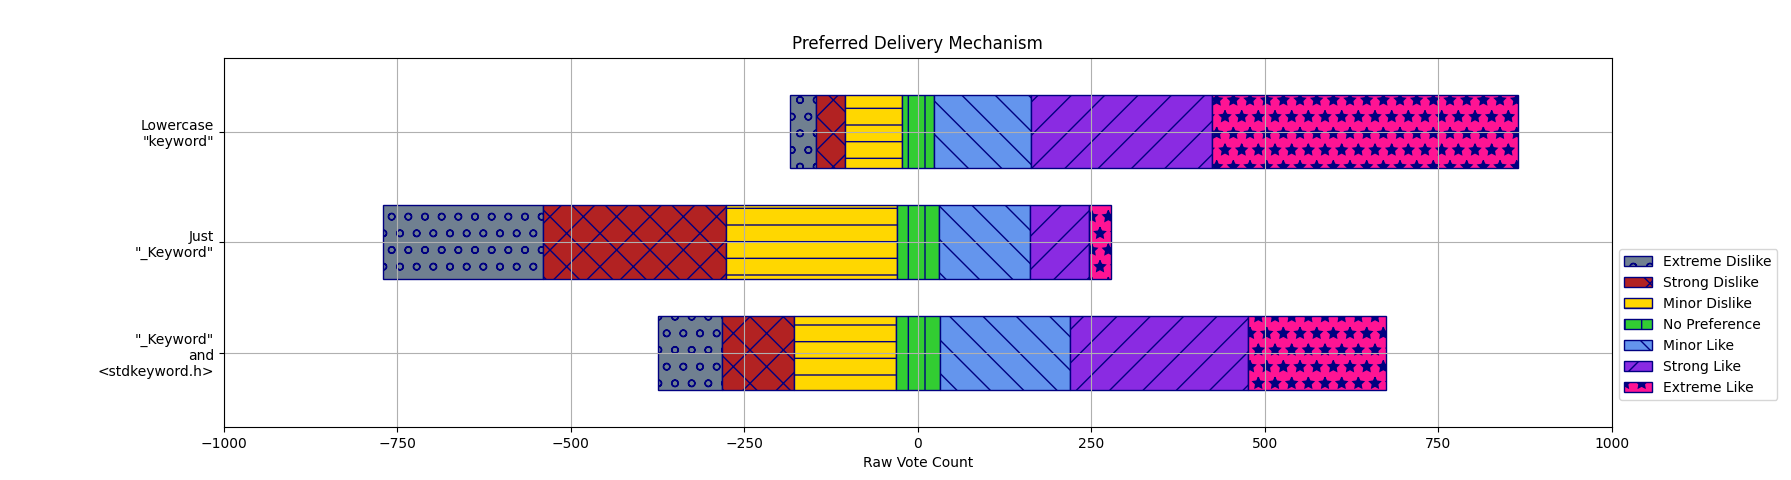
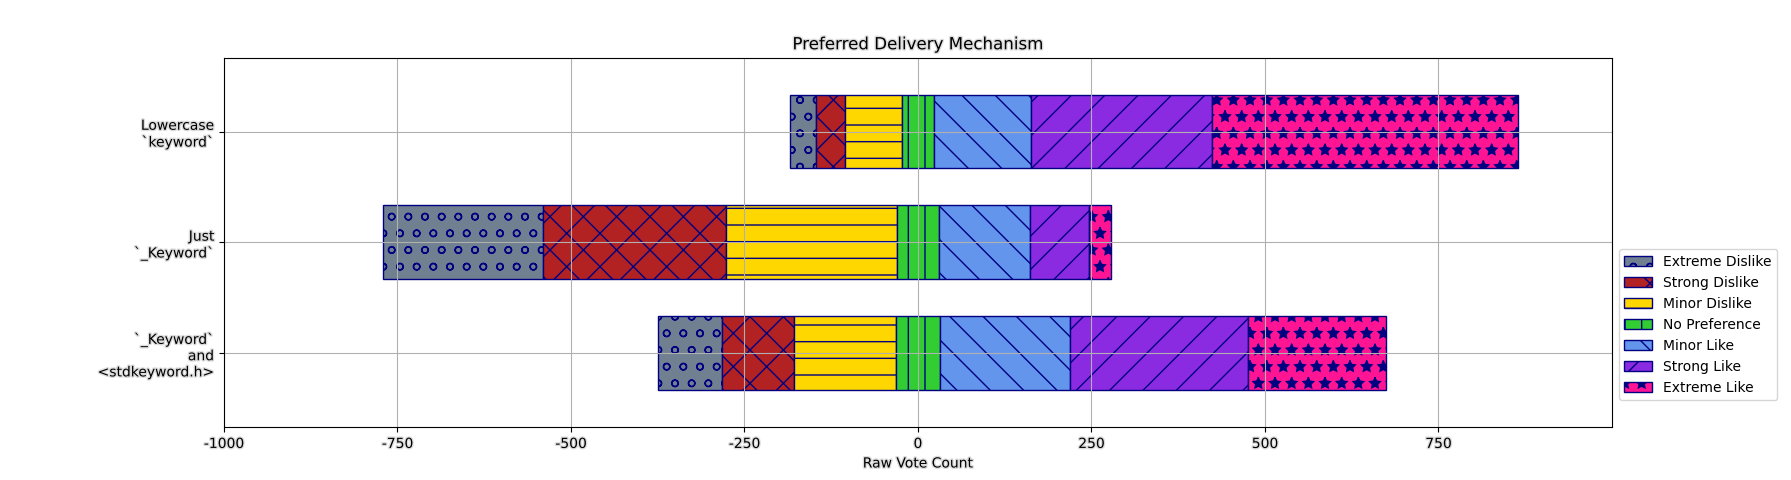
🛠 Provide CSV headers
- 🎨 Add proper stroke and transparency to all graphs
- 🎨 Adjust colors and stroke thickness for better readability

diff --git a/main.py b/main.py
@@ -13,6 +13,7 @@ import numpy
 import sys
 from mpl_toolkits.basemap import Basemap
 import wordcloud
+import colorsys
 
 class response:
 	usage_experience_associations = {
@@ -93,9 +94,9 @@ class response:
 		)
 	]
 	index_to_delivery_associations = [
-		"\"_Keyword\" and <stdkeyword.h>",
-		"Just \"_Keyword\"",
-		"Lowercase \"keyword\""
+		"`_Keyword` and <stdkeyword.h>",
+		"Just `_Keyword`",
+		"Lowercase `keyword`"
 	]
 	delivery_underscore_header_index = 0
 	delivery_underscore_only_index = 1
@@ -204,6 +205,11 @@ country_pattern = re.compile(r"^\[Country\]\s*(.*)$")
 score_colors = ["slategrey", "firebrick", "gold", "limegreen", "cornflowerblue", "blueviolet", "deeppink"]
 score_hatches = ["o", "x", "-", "|", "\\", "/", "*"]
 skill_hatches = ["o", "x", "-", "|", "\\", "/", "*"]
+
+def csv_string_escape (value: str):
+	value = value.replace("\"", r"\"")
+	value = value.replace("\n", r"\n")
+	return value
 
 def parse_question_answer(question_number, current_response: response,
                           line: str, line_index: int, line_count: int,
@@ -357,6 +363,20 @@ def parse_all_counted_data_into(lines):
 
 def write_data(results : list[response], output_prefix, seed):
 	with open(output_prefix + "_data.csv", "w", encoding="utf-8") as f:
+		# descriptive headers
+		header_line = "response_id,last_use,skill_level,"
+		for label in response.index_to_spelling_associations:
+			header_label = csv_string_escape(label)
+			header_line += f"\"{header_label}\","
+		for label in response.index_to_delivery_associations:
+			header_label = csv_string_escape(label)
+			header_line += f"\"{header_label}\","
+		for label in response.index_to_exact_spelling_associations:
+			header_label = csv_string_escape(label)
+			header_line += f"\"{header_label}\","
+		header_line += ",comment"
+		f.write(header_line)
+		# rest of the data
 		for result in results:
 			line = f"{result.id},{result.last_use},{result.skill_level}"
 			for s in result.spelling:
@@ -367,9 +387,7 @@ def write_data(results : list[response], output_prefix, seed):
 				line += f",{es}"
 			line += ","
 			if not result.comment is None and len(result.comment) > 0:
-				comment = result.comment
-				comment = comment.replace("\"", r"\"")
-				comment = comment.replace("\\n", r"\n")
+				comment = csv_string_escape(result.comment)
 				line += f"\"{comment}\""
 			line += "\n"
 
@@ -388,12 +406,17 @@ def draw_city_distribution(results: list[response], output_prefix, seed):
 					    width=1600, height=1200)
 	cloud.generate_from_frequencies(cities_and_countries)
 	img = cloud.to_image().convert("RGBA")
-	#for x in range(0, img.width):
-	#	for y in range(0, img.height):
-	#		pixel = img.getpixel((x, y))
-	#		fuzziness = 40
-	#		if (255 - fuzziness) <= pixel[0] <= 255 and (255 - fuzziness) <= pixel[0] <= 255 and (255 - fuzziness) <= pixel[0] <= 255:
-	#			img.putpixel((x, y), (0, 0, 0, 0))
+	for x in range(0, img.width):
+		for y in range(0, img.height):
+			pixel = img.getpixel((x, y))
+			pixel_hsv = colorsys.rgb_to_hsv(pixel[0], pixel[1], pixel[2])
+			fuzziness = 0.6
+			brightness = pixel_hsv[2] / 255
+			if brightness < fuzziness or pixel_hsv[1] > 0.3:
+				continue
+			alpha = 1.0 - ((brightness - fuzziness) / (1.0 - fuzziness))
+			alpha_rgba = int(min(max(alpha * 255, 0), 255))
+			img.putpixel((x, y), (pixel[0], pixel[1], pixel[2], alpha_rgba))
 	img.save(output_prefix + "_cloud.png")
 	matplotlib.pyplot.close('all')
 
@@ -405,14 +428,14 @@ def draw_map(results: list[response], output_prefix, seed):
 	# draw parallels and meridians.
 	map.drawparallels(numpy.arange(-90.,91.,30.), color="white", linewidth=0.5)
 	map.drawmeridians(numpy.arange(-180.,181.,60.), color="white", linewidth=0.5)
-	map.drawmapboundary(fill_color="royalblue")
-	map.drawcountries(linewidth=0.2, color="cyan")
+	map.drawmapboundary(color="white", fill_color="royalblue")
+	map.drawcountries(linewidth=0.4, color="white")
 	rnd = random.Random(seed)
 	markers = [".", "x", "*", "v", "d", "p"]
 	colors = score_colors[:6]
 	plots = []
 	handles_and_labels = [None, None, None, None, None, None]
-	stroke_effects = [matplotlib.patheffects.withStroke(linewidth=1, foreground="b")]
+	stroke_effects = [matplotlib.patheffects.withStroke(linewidth=1.25, foreground="white")]
 	
 	for result in results:
 		longiskew = -0.8 + ((rnd.randrange(0, 100) / 100.0) * 1.6)
@@ -427,14 +450,14 @@ def draw_map(results: list[response], output_prefix, seed):
 		plot = map.plot(x, y, marker=marker, color=(marker_color, 0.25), linewidth=0.3)
 		plots.append(plot)
 		if handle_label is None:
-			legend_plot = map.plot(0, 0, marker=marker, color=(marker_color, 0.5), linewidth=0.3, zorder=sys.float_info.min)[0]
+			legend_plot = map.plot(0, 0, marker=marker, color=(marker_color, 0.5), linewidth=0.30, zorder=sys.float_info.min)[0]
 			plot_label = response.index_to_spelling_associations[best_spelling_score_index]
 			handle_label = handles_and_labels[best_spelling_score_index] = (legend_plot, plot_label)
 	
 	matplotlib.pyplot.legend([hl[0] for hl in handles_and_labels], [hl[1] for hl in handles_and_labels], fontsize="x-small")
 	
 	title_text = matplotlib.pyplot.title("Respondent Geographic Distribution")
-	title_text.set_color("#FFFF")
+	title_text.set_color("#000F")
 	title_text.set_path_effects(stroke_effects)
 	
 	matplotlib.pyplot.tight_layout()
@@ -457,16 +480,16 @@ def draw_skill_piecharts(results: list[response], output_prefix: str, seed: int)
 	figures, axes = matplotlib.pyplot.subplots()
 	figures.set_figwidth(28)
 	figures.set_figheight(20)
-	stroke_effects = [matplotlib.patheffects.withStroke(linewidth=1, foreground="b")]
+	stroke_effects = [matplotlib.patheffects.withStroke(linewidth=2, foreground="white")]
 	title_text = axes.set_title("Respondent Skill Levels")
 	_, texts = axes.pie(sizes, counterclock=False, labels=labels, hatch=skill_hatches)
 
 	title_text.set_fontsize(48)
-	title_text.set_color("#FFFF")
+	title_text.set_color("#000F")
 	title_text.set_path_effects(stroke_effects)
 	for t in texts:
 		t.set_fontsize(20)
-		t.set_color("#FFFF")
+		t.set_color("#000F")
 		t.set_path_effects(stroke_effects)
 	figures.savefig(output_prefix + "_skills.png", transparent=True)
 	matplotlib.pyplot.close('all')
@@ -487,16 +510,16 @@ def draw_experience_piecharts(results: list[response], output_prefix: str, seed:
 	figures, axes = matplotlib.pyplot.subplots()
 	figures.set_figwidth(21)
 	figures.set_figheight(20)
-	stroke_effects = [matplotlib.patheffects.withStroke(linewidth=1, foreground="b")]
+	stroke_effects = [matplotlib.patheffects.withStroke(linewidth=2, foreground="white")]
 	title_text = axes.set_title("Respondent Usage Experience")
 	_, texts = axes.pie(sizes, counterclock=False, labels=labels, hatch=score_hatches)
 
 	title_text.set_fontsize(48)
-	title_text.set_color("#FFFF")
+	title_text.set_color("#000F")
 	title_text.set_path_effects(stroke_effects)
 	for t in texts:
 		t.set_fontsize(20)
-		t.set_color("#FFFF")
+		t.set_color("#000F")
 		t.set_path_effects(stroke_effects)
 	figures.savefig(output_prefix + "_experience.png", transparent=True)
 	matplotlib.pyplot.close('all')
@@ -511,6 +534,7 @@ def draw_spelling_barcharts(results: list[response], output_prefix: str, seed: i
 		[0, 0, 0, 0, 0, 0, 0],
 		[0, 0, 0, 0, 0, 0, 0],
 	)
+	stroke_effects = [matplotlib.patheffects.withStroke(linewidth=2, foreground="gainsboro")]
 	for result in results:
 		for i, score in enumerate(spelling):
 			score = result.spelling[i]
@@ -533,19 +557,28 @@ def draw_spelling_barcharts(results: list[response], output_prefix: str, seed: i
 			bar_left_edge += bar_score
 			bar.set_label(label_name)
 			bars.append(bar)
-	axes.set(xlabel="Raw Vote Count", ylabel="", ylim=(-1, 8.5), xlim=(-1000, 1000))
-	axes.set_yticks([0, 1.5, 3, 4.5, 6, 7.5], response.index_to_spelling_associations)
+	axes.set(ylabel="", ylim=(-1, 8.5), xlim=(-1000, 1000))
+	axes.set_xlabel("Raw Vote Count", path_effects=stroke_effects)
+	axes.set_xticks(numpy.arange(-1000, 1000, 250),
+			  [str(x) for x in numpy.arange(-1000, 1000, 250)],
+			  path_effects=stroke_effects)
+	axes.set_yticks([0, 1.5, 3, 4.5, 6, 7.5], response.index_to_spelling_associations,
+			  path_effects=stroke_effects)
 	axes.grid(True)
 	axes.legend(bars[:len(response.index_to_score_name_associations)],
 		   response.index_to_score_name_associations,
 		   loc="upper left", bbox_to_anchor=(1, 0.5))
-	axes.set_title("Preferred Spelling")
+	title_text = axes.set_title("Preferred Spelling")
+	title_text.set_color("#000F")
+	title_text.set_path_effects(stroke_effects)
+	
 	figures.set_figwidth(figures.get_figwidth() * 2.8)
-	figures.savefig(output_prefix + "_spelling_preference.png")
+	figures.savefig(output_prefix + "_spelling_preference.png", transparent=True)
 	matplotlib.pyplot.close('all')
 
 def draw_delivery_barcharts(results: list[response], output_prefix: str, seed: int):
 	# format data
+	stroke_effects = [matplotlib.patheffects.withStroke(linewidth=2, foreground="gainsboro")]
 	delivery = (
 		[0, 0, 0, 0, 0, 0, 0],
 		[0, 0, 0, 0, 0, 0, 0],
@@ -573,20 +606,29 @@ def draw_delivery_barcharts(results: list[response], output_prefix: str, seed: i
 			bar_left_edge += bar_score
 			bar.set_label(label_name)
 			bars.append(bar)
-	axes.set(xlabel="Raw Vote Count", ylabel="", ylim=(-1, 4), xlim=(-1000, 1000))
-	axes.set_yticks([0, 1.5, 3], ["\n".join(s.split()) for s in response.index_to_delivery_associations])
+	axes.set(ylabel="", ylim=(-1, 4), xlim=(-1000, 1000))
+	axes.set_xlabel("Raw Vote Count", path_effects=stroke_effects)
+	axes.set_xticks(numpy.arange(-1000, 1000, 250),
+			  [str(x) for x in numpy.arange(-1000, 1000, 250)],
+			  path_effects=stroke_effects)
+	axes.set_yticks([0, 1.5, 3],
+			  ["\n".join(s.split()) for s in response.index_to_delivery_associations],
+			  path_effects=stroke_effects)
 	axes.grid(True)
 	axes.legend(bars[:len(response.index_to_score_name_associations)],
 		   response.index_to_score_name_associations,
 		   loc="upper left", bbox_to_anchor=(1, 0.5))
-	axes.set_title("Preferred Delivery Mechanism")
+	title_text = axes.set_title("Preferred Delivery Mechanism")
+	title_text.set_color("#000F")
+	title_text.set_path_effects(stroke_effects)
 	figures.set_figwidth(figures.get_figwidth() * 2.8)
-	figures.savefig(output_prefix + "_delivery_preference.png")
+	figures.savefig(output_prefix + "_delivery_preference.png", transparent=True)
 	matplotlib.pyplot.close('all')
 
 
 def draw_exact_spelling_barcharts(results: list[response], output_prefix: str, seed: int):
 	# format data
+	stroke_effects = [matplotlib.patheffects.withStroke(linewidth=2, foreground="gainsboro")]
 	exact_spelling = (
 		[0, 0, 0, 0, 0, 0, 0],
 		[0, 0, 0, 0, 0, 0, 0],
@@ -627,16 +669,24 @@ def draw_exact_spelling_barcharts(results: list[response], output_prefix: str, s
 			bar_left_edge += bar_score
 			bar.set_label(label_name)
 			bars.append(bar)
-	axes.set(xlabel="Raw Vote Count", ylabel="", ylim=(-1, 23.5), xlim=(-1000, 1000))
-	axes.set_yticks([0, 1.5, 3, 4.5, 6, 7.5, 9, 10.5, 12, 13.5, 15, 16.5, 18, 19.5, 21, 22.5], [";\n".join(s.split("; ")) for s in response.index_to_exact_spelling_associations])
+	axes.set(ylabel="", ylim=(-1, 23.5), xlim=(-1000, 1000))
+	axes.set_xlabel("Raw Vote Count", path_effects=stroke_effects)
+	axes.set_xticks(numpy.arange(-1000, 1000, 250),
+			  [str(x) for x in numpy.arange(-1000, 1000, 250)],
+			  path_effects=stroke_effects)
+	axes.set_yticks([0, 1.5, 3, 4.5, 6, 7.5, 9, 10.5, 12, 13.5, 15, 16.5, 18, 19.5, 21, 22.5],
+			  [";\n".join(s.split("; ")) for s in response.index_to_exact_spelling_associations],
+			  path_effects=stroke_effects)
 	axes.grid(True)
 	axes.legend(bars[:len(response.index_to_score_name_associations)],
 		   response.index_to_score_name_associations,
 		   loc="upper left", bbox_to_anchor=(1, 0.5))
-	axes.set_title("Preferred Exact Spelling")
+	title_text = axes.set_title("Preferred Exact Spelling")
+	title_text.set_color("#000F")
+	title_text.set_path_effects(stroke_effects)
 	figures.set_figwidth(figures.get_figwidth() * 2.8)
 	figures.set_figheight(figures.get_figheight() * 1.8)
-	figures.savefig(output_prefix + "_exact_spelling_preference.png")
+	figures.savefig(output_prefix + "_exact_spelling_preference.png", transparent=True)
 	matplotlib.pyplot.close('all')
 
 

diff --git a/README.md b/README.md
@@ -1,0 +1,9 @@
+# The Big Array Size Survey - Results
+
+The initial blog post launching the survey is [here: https://thephd.dev/the-big-array-size-survey-for-c](https://thephd.dev/the-big-array-size-survey-for-c).
+
+The results are discussed in paper [N3440 in brief](https://thephd.dev/_vendor/future_cxx/papers/C%20-%20The%20Big%20Size%20Survey.html) in a later post [here: https://thephd.dev/the-big-array-size-survey-for-c](https://thephd.dev/the-big-array-size-survey-for-c).
+
+The `main.py` file parses a (not provided) file from AllCounted to get out information. The CSV -- along with the initial graphics in this repository -- are generated from that AllCounted information. The AllCounted data contains identifying information, and so cannot be released. The CSV is entirely anonymous and contains no identifying information.
+
+The CSV contains a single header at the start identifying what each column represents in the data. Everything except the Geographic Distributions Map and the City Word Cloud can be replicated from the CSV data.
